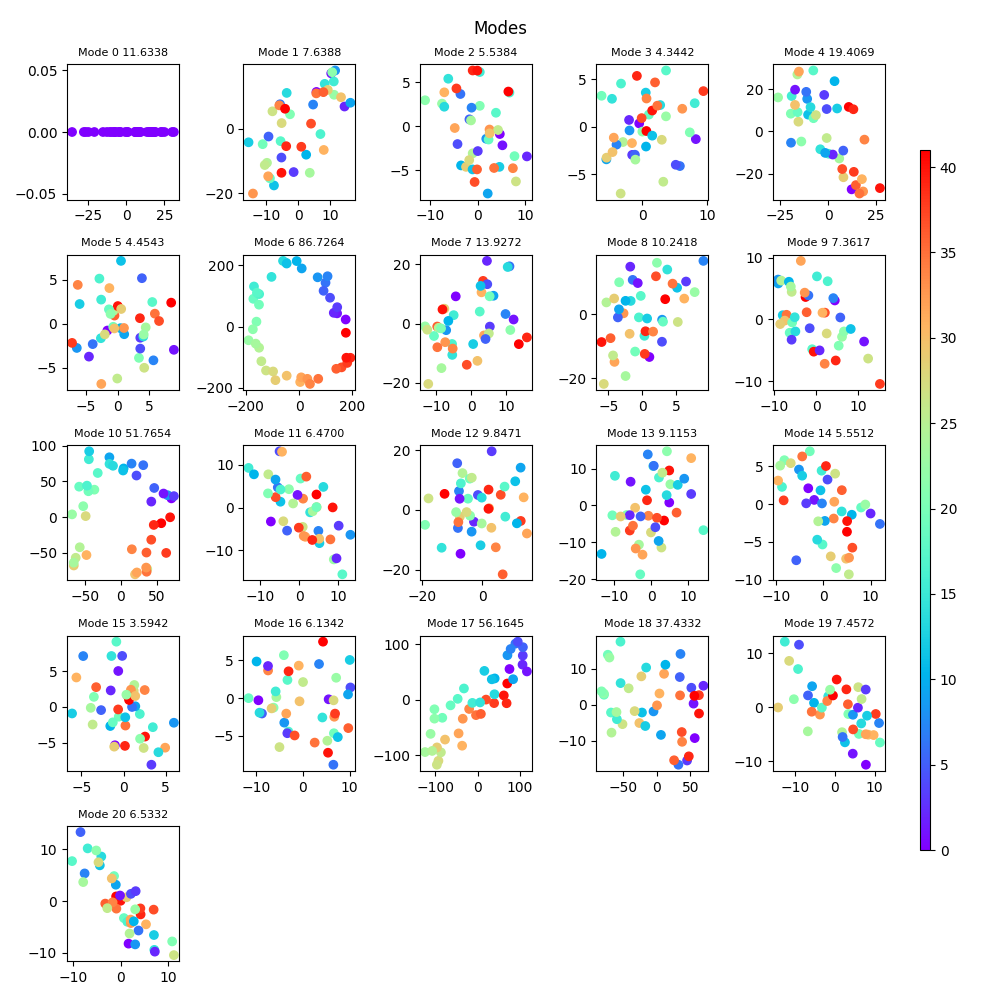
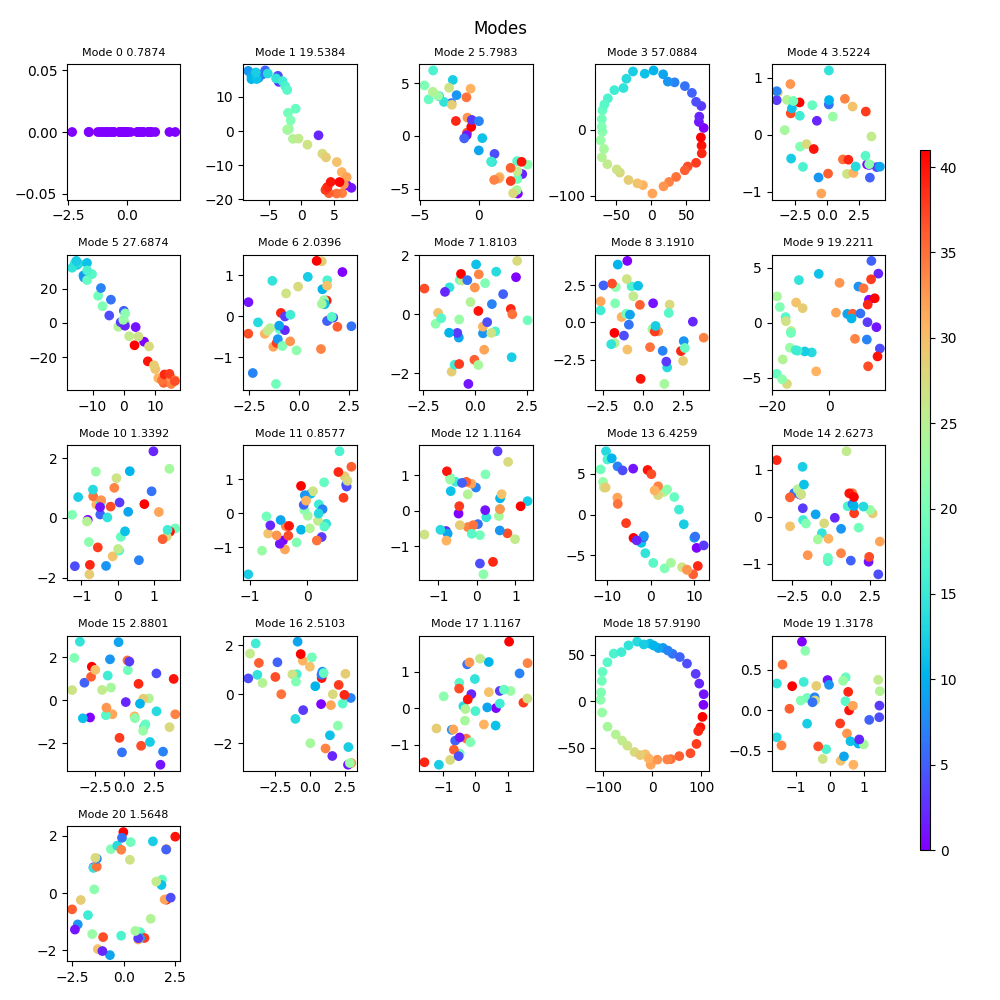
Fix bugs

diff --git a/modular_addition/train.py b/modular_addition/train.py
@@ -246,19 +246,49 @@ if __name__ == "__main__":
         scale_embed=1.0,
         use_random_dataset=False,
         freeze_middle=False,
-        n_batches=1500,
-        n_save_model_checkpoints=25,
+        n_batches=15000,
+        n_save_model_checkpoints=0,
         lr=0.01,
         magnitude=False,
         ablation_fourier=False,
         do_viz_weights_modes=True,
         batch_size=64,
-        num_no_weight_decay_steps=0,
+        num_no_weight_decay_steps=1000,
         embed_dim=8,
         hidden_size=32,
         p = 53,
     )
     for run in range(5):
         params.run_id = run
-        params.save_to_file(f"experiment_params/checkpoint_sweep/run_{params.run_id}.json")
-        run_exp(params)
+        p_sweep_exp([41, 53], params, "psweep_repeats")
+
+    # for run in range(5):
+    #     params.run_id = run
+    #     params.save_to_file(f"experiment_params/checkpoint_sweep/run_{params.run_id}.json")
+    #     run_exp(params)
+
+    # params = ExperimentParams(
+    #     linear_1_tied=False,
+    #     tie_unembed=False,
+    #     movie=False,
+    #     scale_linear_1_factor=1.0,
+    #     scale_embed=1.0,
+    #     use_random_dataset=False,
+    #     freeze_middle=False,
+    #     n_batches=10000,
+    #     n_save_model_checkpoints=25,
+    #     lr=0.01,
+    #     magnitude=False,
+    #     ablation_fourier=False,
+    #     do_viz_weights_modes=True,
+    #     batch_size=64,
+    #     num_no_weight_decay_steps=1000,
+    #     embed_dim=8,
+    #     hidden_size=32,
+    #     p = 53,
+    # )
+    # params.run_id = 2
+    # for run in range(5):
+    #     params.run_id = run
+    #     params.save_to_file(f"experiment_params/checkpoint_sweep/run_{params.run_id}.json")
+    #     run_exp(params)

diff --git a/modular_addition/lambda.py b/modular_addition/lambda.py
@@ -274,7 +274,7 @@ def plot_lambda_test_train_loss(ax1, x_axis, x_label, lambda_values, test_losses
     ax2.plot(x_axis, test_losses, marker="o", color='r', label="test loss", linestyle="--")
     ax2.set_ylabel("Loss", color='b')
     ax2.tick_params('y', colors='b')
-    ax2.legend(loc='upper right')
+    ax2.legend(loc='bottom right')
 
 def plot_lambda_per_quantity(param_files, quantity_values, quantity_name, sgld_params):
     lambda_values, test_losses, train_losses = get_lambda_per_quantity(param_files, sgld_params)
@@ -397,7 +397,6 @@ def plot_lambda_per_p(sgld_params, p_sweep_dir, resample=False):
     test_losses = []
     train_losses = []
     for p in p_values:
-        p_values.append(p)
         lambda_values.append(t.mean(t.tensor([run[0] for run in results[p].values()])))
         test_losses.append(t.mean(t.tensor([run[1] for run in results[p].values()])))
         train_losses.append(t.mean(t.tensor([run[2] for run in results[p].values()])))
